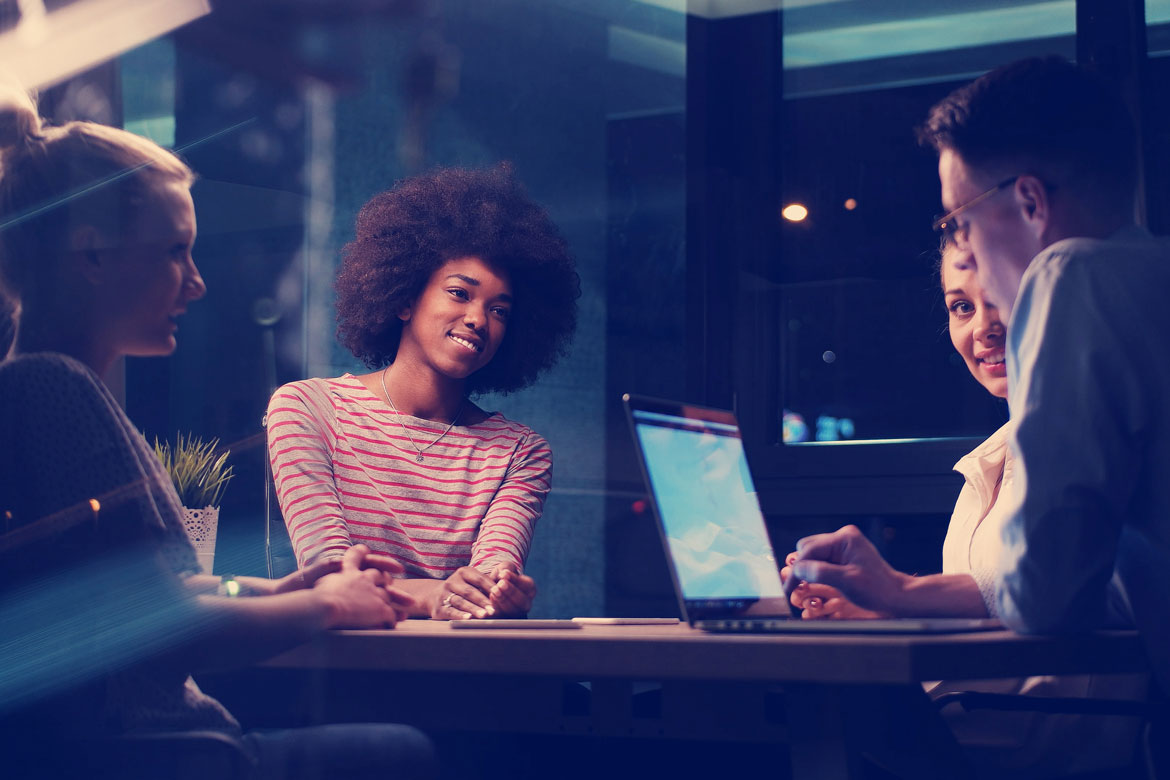
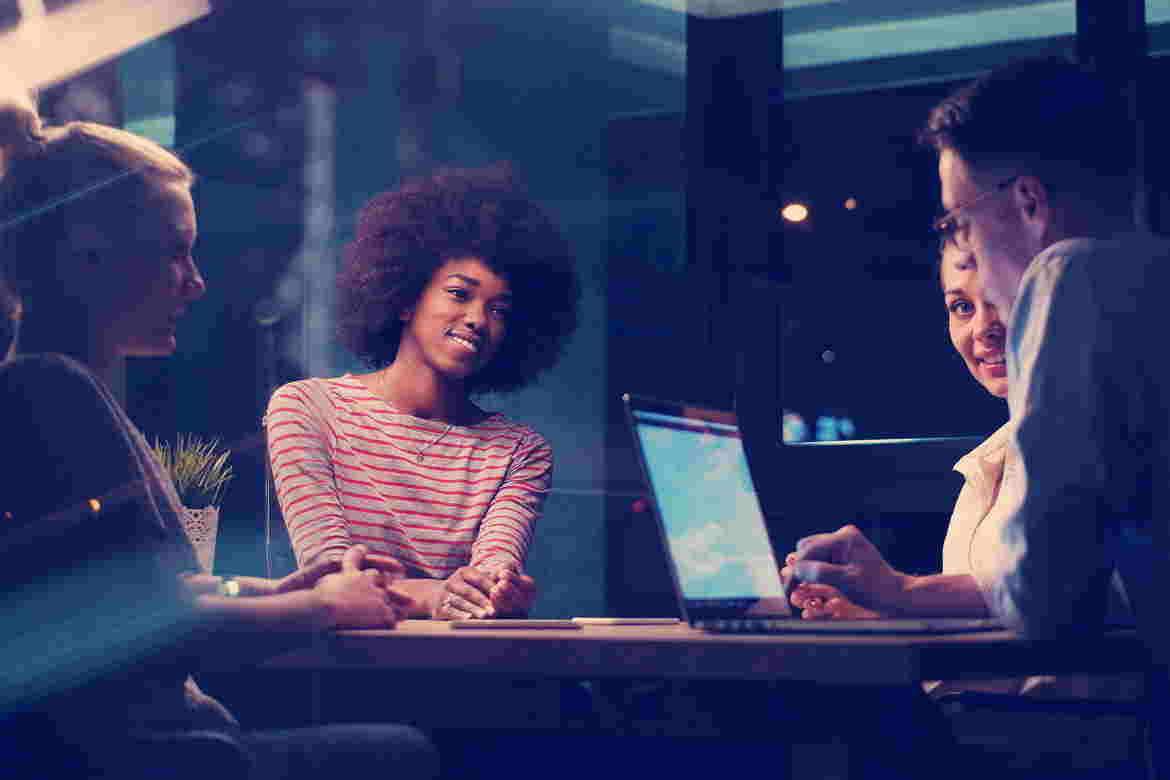
Otimização do site

diff --git a/index_static.html b/index_static.html
@@ -85,6 +85,8 @@
 												padding: 0px;
 												border-radius: 25px;
 												padding-left: 5px;
+												margin-bottom: 10px;
+												margin-top: 10px;
 												line-height: 3.8;">Acessar</a>
 											</li>
 											<li>
@@ -187,7 +189,7 @@
 						<div class="col-xl-6 col-lg-6 col-lg-6 col-xs-12 order-2 order-lg-1 animate"
 							data-animation="fadeInLeftBig">
 							<div class="side-image">
-								<img src="images\about-image.png" width="300" height="300" alt="">
+								<img src="images\about-image.jpg" width="300" height="300" alt="">
 								<div class="d-block d-lg-none divider-10"></div>
 							</div>
 						</div>
@@ -403,7 +405,7 @@
 									data-nav="false" data-dots="true">
 									<div class="quote-item">
 										<div class="quote-image">
-											<img src="images\female-4.webp" alt="">
+											<img src="images\female-4.jpg" alt="">
 										</div>
 										<div class="quote-inner">
 											<p class="small-text quote-meta">
@@ -870,7 +872,6 @@
 
 	<script src="js\compressed.js"></script>
 	<script src="js\main.js"></script>
-	<script src="js\switcher.js"></script>
 
 </body>
 

diff --git a/css/main.css b/css/main.css
@@ -14709,7 +14709,7 @@ a img.aligncenter {
 	}
 
 	.top-nav .sf-menu a {
-		color: #09ff00 !important;
+		color: #000000 !important;
 		display: block;
 		padding: 5px 10px;
 		z-index: 2;
